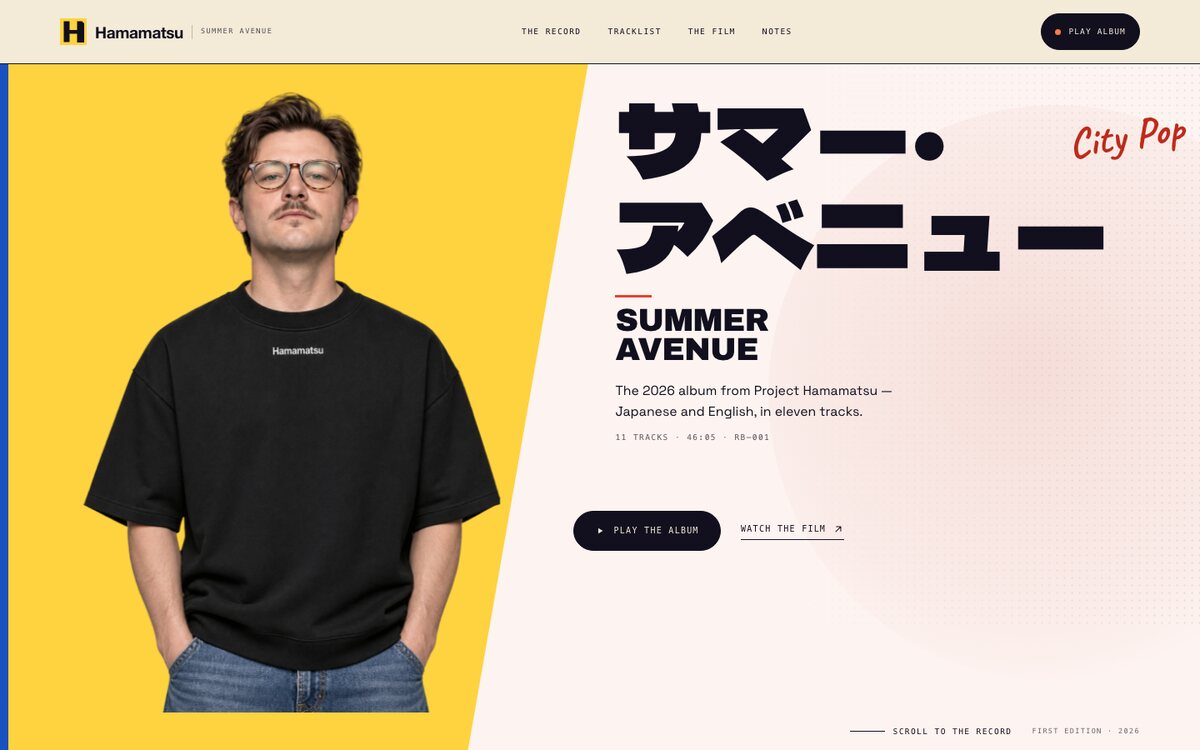
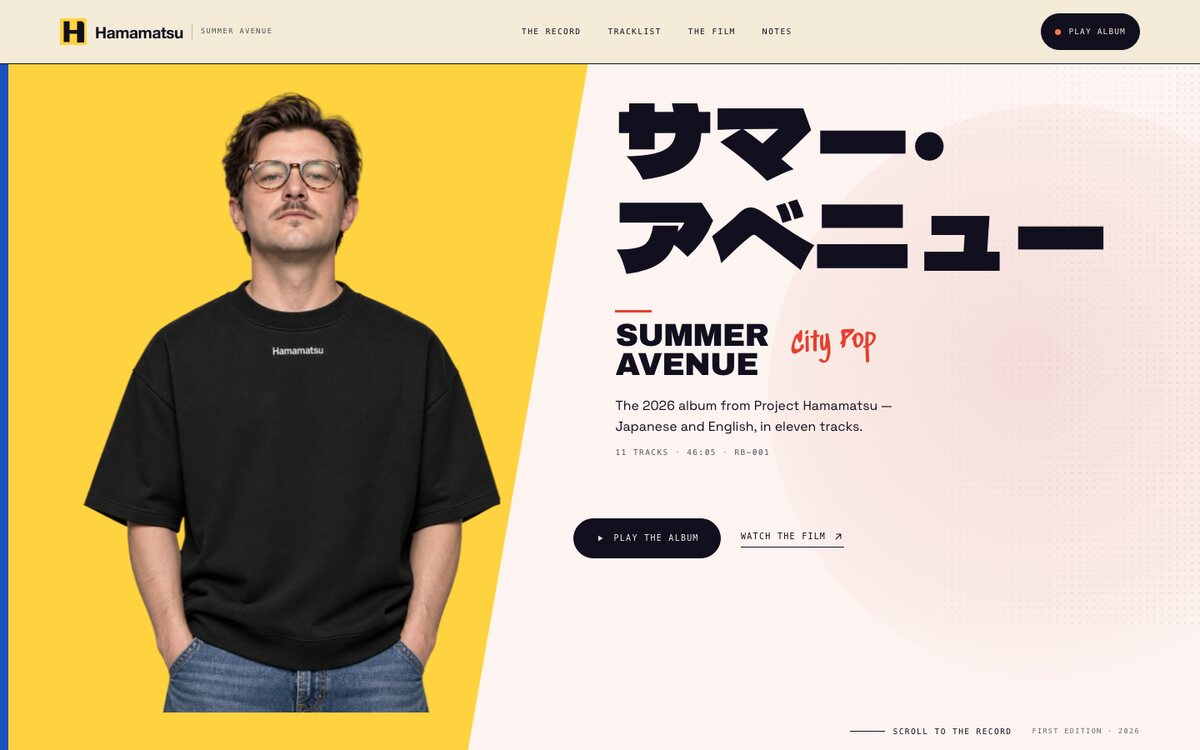
Tie City Pop to the English title

Changed region(s): [[0.4933, 0.368, 0.74, 0.6133], [0.4625, 0.6747, 0.7092, 0.7667], [0.8942, 0.1533, 0.9867, 0.2147]]

diff --git a/assets/css/styles.css b/assets/css/styles.css
@@ -39,7 +39,7 @@
   --font-body: "Space Grotesk", "Helvetica Neue", Arial, sans-serif;
   --font-jp: "Noto Sans JP", "Hiragino Sans", "Yu Gothic", sans-serif;
   --font-mono: ui-monospace, "SFMono-Regular", "SF Mono", Menlo, Consolas, monospace;
-  --font-script: "Caveat", "Segoe Script", "Bradley Hand", cursive;
+  --font-script: "Sedgwick Ave Display", "Brush Script MT", "Segoe Script", cursive;
 
   --header-h: 76px;
   --player-h: 88px;
@@ -3448,19 +3448,31 @@ body.is-playing .play-pill:hover .play-pill__dot { background: var(--red); }
   mask-image: linear-gradient(to left, #000 0%, transparent 82%);
 }
 
+.hero-poster__en-row {
+  display: flex;
+  align-items: center;
+  flex-wrap: wrap;
+  gap: clamp(22px, 1.8vw, 26px);
+  margin-top: clamp(12px, 2vh, 22px);
+}
+
+.hero-poster__en {
+  margin-top: 0;
+}
+
 .hero-poster__city-pop {
-  position: absolute;
-  top: 6.5%;
-  right: 1.4%;
-  z-index: 1;
-  transform: rotate(-9deg);
-  transform-origin: 100% 50%;
+  position: relative;
+  top: 10px;
+  flex: none;
+  align-self: center;
+  transform: rotate(-4deg);
+  transform-origin: left center;
   font-family: var(--font-script);
-  font-size: clamp(2.2rem, 3.4vw, 3.6rem);
-  font-weight: 700;
+  font-size: clamp(1.4rem, 2.2vw, 2.1rem);
+  font-weight: 400;
   line-height: 0.9;
-  letter-spacing: 0.01em;
-  color: var(--red-deep);
+  letter-spacing: 0.005em;
+  color: var(--red);
   white-space: nowrap;
   pointer-events: none;
 }
@@ -3825,11 +3837,10 @@ body.is-playing .play-pill:hover .play-pill__dot { background: var(--red); }
     padding-bottom: clamp(10px, 2vh, 18px);
   }
 
-  .hero-poster__city-pop {
-    top: 8%;
-    right: 16px;
-    font-size: clamp(1.7rem, 7vw, 2.2rem);
+  .hero-poster__en-row {
+    gap: 8px 22px;
   }
+
 
   .hero-poster__jp { font-size: clamp(2.8rem, 12.4vw, 4.6rem); }
   .hero-poster__en {
@@ -3849,11 +3860,6 @@ body.is-playing .play-pill:hover .play-pill__dot { background: var(--red); }
     clip-path: polygon(0 0, 100% 0, 100% 28%, 0 30%);
   }
 
-  .hero-poster__city-pop {
-    top: 9%;
-    right: 28px;
-    font-size: clamp(2rem, 5vw, 2.8rem);
-  }
 }
 
 @media (max-width: 600px) {

diff --git a/index.html b/index.html
@@ -32,7 +32,7 @@
 
   <link rel="preconnect" href="https://fonts.googleapis.com">
   <link rel="preconnect" href="https://fonts.gstatic.com" crossorigin>
-  <link href="https://fonts.googleapis.com/css2?family=Archivo+Black&amp;family=Caveat:wght@700&amp;family=Dela+Gothic+One&amp;family=Noto+Sans+JP:wght@400;500;700&amp;family=Space+Grotesk:wght@400;500;600;700&amp;display=swap" rel="stylesheet">
+  <link href="https://fonts.googleapis.com/css2?family=Archivo+Black&amp;family=Dela+Gothic+One&amp;family=Noto+Sans+JP:wght@400;500;700&amp;family=Space+Grotesk:wght@400;500;600;700&amp;family=Sedgwick+Ave+Display&amp;display=swap" rel="stylesheet">
 
   <link rel="preload" as="image" href="assets/img/hero-portrait-black-full.webp" type="image/webp">
   <link rel="stylesheet" href="assets/css/styles.css">
@@ -148,13 +148,14 @@
         <span class="hero-poster__rose"></span>
         <span class="hero-poster__dots"></span>
       </div>
-      <span class="hero-poster__city-pop" aria-hidden="true">City Pop</span>
-
       <div class="container hero-poster__inner">
         <div class="hero-poster__copy">
           <h1 class="hero-poster__title" id="hero-title">
             <span class="hero-poster__jp" lang="ja">サマー・<br>アベニュー</span>
-            <span class="hero-poster__en">SUMMER<br>AVENUE</span>
+            <span class="hero-poster__en-row">
+              <span class="hero-poster__en">SUMMER<br>AVENUE</span>
+              <span class="hero-poster__city-pop" aria-hidden="true">City Pop</span>
+            </span>
           </h1>
           <p class="hero-poster__lede">The 2026 album from Project Hamamatsu — Japanese and English, in eleven tracks.</p>
           <p class="hero-poster__meta">11 TRACKS <span>·</span> 46:05 <span>·</span> RB–001</p>

diff --git a/README.md b/README.md
@@ -61,7 +61,7 @@ The palette is documented in `assets/css/styles.css`:
 
 ![Summer Avenue — the interlude](docs/interlude-desktop.jpg)
 
-The first screen is a split Japanese-release poster: saturated yellow behind the full-height portrait on the left, and a warm white-pink field with one large powder-pink circle behind the type on the right, joined by a subtle 7–10° diagonal. The supplied **black Hamamatsu hero portrait** (1024×1536) is fully contained and uncropped, with no card, sleeve, vinyl, or frame. The header uses the new geometric **H** mark and the supplied “Hamamatsu” wordmark in Helvetica Neue/Arial Bold, matching the tight neo-grotesque print on the shirt. A 24–32px desktop gutter keeps the Japanese title entirely on the rose field, and a live Caveat **City Pop** accent sits inside the upper rose circle. The Japanese title is live HTML in Dela Gothic One (`lang="ja"`); the English title is the second level. The film player returns to its poster and **PLAY THE FILM** after a natural ending; a mid-film pause keeps its frame and position.
+The first screen is a split Japanese-release poster: saturated yellow behind the full-height portrait on the left, and a warm white-pink field with one large powder-pink circle behind the type on the right, joined by a subtle 7–10° diagonal. The supplied **black Hamamatsu hero portrait** (1024×1536) is fully contained and uncropped, with no card, sleeve, vinyl, or frame. The header uses the new geometric **H** mark and the supplied “Hamamatsu” wordmark in Helvetica Neue/Arial Bold, matching the tight neo-grotesque print on the shirt. A 24–32px desktop gutter keeps the Japanese title entirely on the rose field, and a live **City Pop** accent in Sedgwick Ave Display sits immediately right of the English title, vertically centred on the two-line block with a 20–26px gutter, and wraps beneath it only when space is tight. The Japanese title is live HTML in Dela Gothic One (`lang="ja"`); the English title is the second level. The film player returns to its poster and **PLAY THE FILM** after a natural ending; a mid-film pause keeps its frame and position.
 
 The Record shows the new official cover flat — the 1254×1254 artwork has no artist wordmark; a hairline border and plain metadata are the only framing. The interlude remains the single collage accent: one diagonal red plane, a blue edge, the Japanese title, and the top-left front face from the new **4-face Hamamatsu sheet**, cropped and converted to B&W, captioned `Hamamatsu / 2026`. The Notes portrait remains the yellow-shirt portrait, with its `Hamamatsu` mark locally reduced.
 
